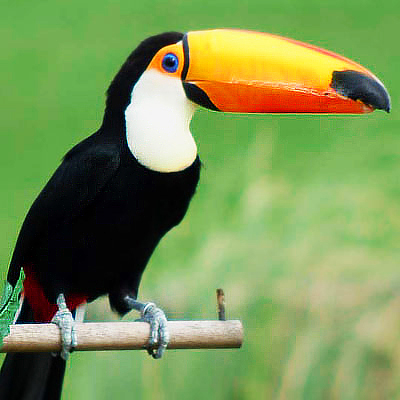
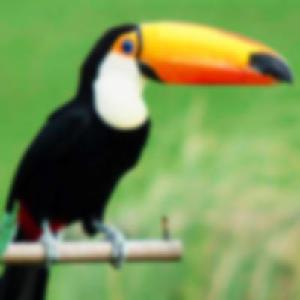
resized toucan images and updated README.md

Changed region(s): [[0.0, 0.06, 0.99, 1.0], [0.12, 0.33, 0.24, 0.45], [0.57, 0.18, 0.63, 0.24]]

diff --git a/README.md b/README.md
@@ -28,6 +28,5 @@ All transformation tools are located somewhere in the tools package, and can all
 	1. [x] Displays output of applied tool
 * [x] Blur
 	* Function name: `blur(image)`
-	* Example:
-		Original image: ![toucan](tools/bin/toucan.jpg)
-		After applying Blur: ![toucan blur](tools/bin/toucan_blur.jpg)
+	* Original vs Blur:
+		![toucan](tools/bin/toucan.jpg) ![toucan blur](tools/bin/toucan_blur.jpg)
